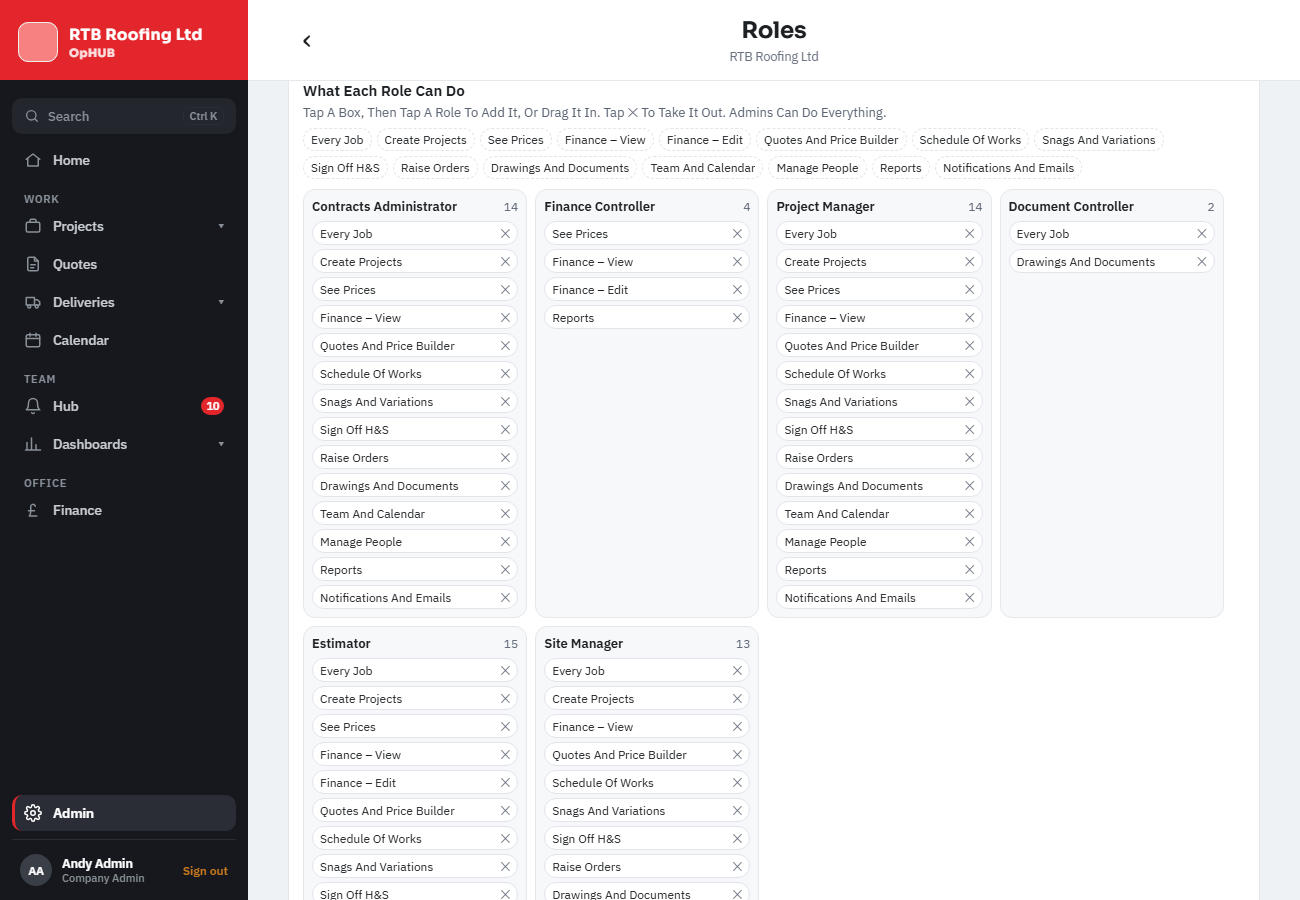
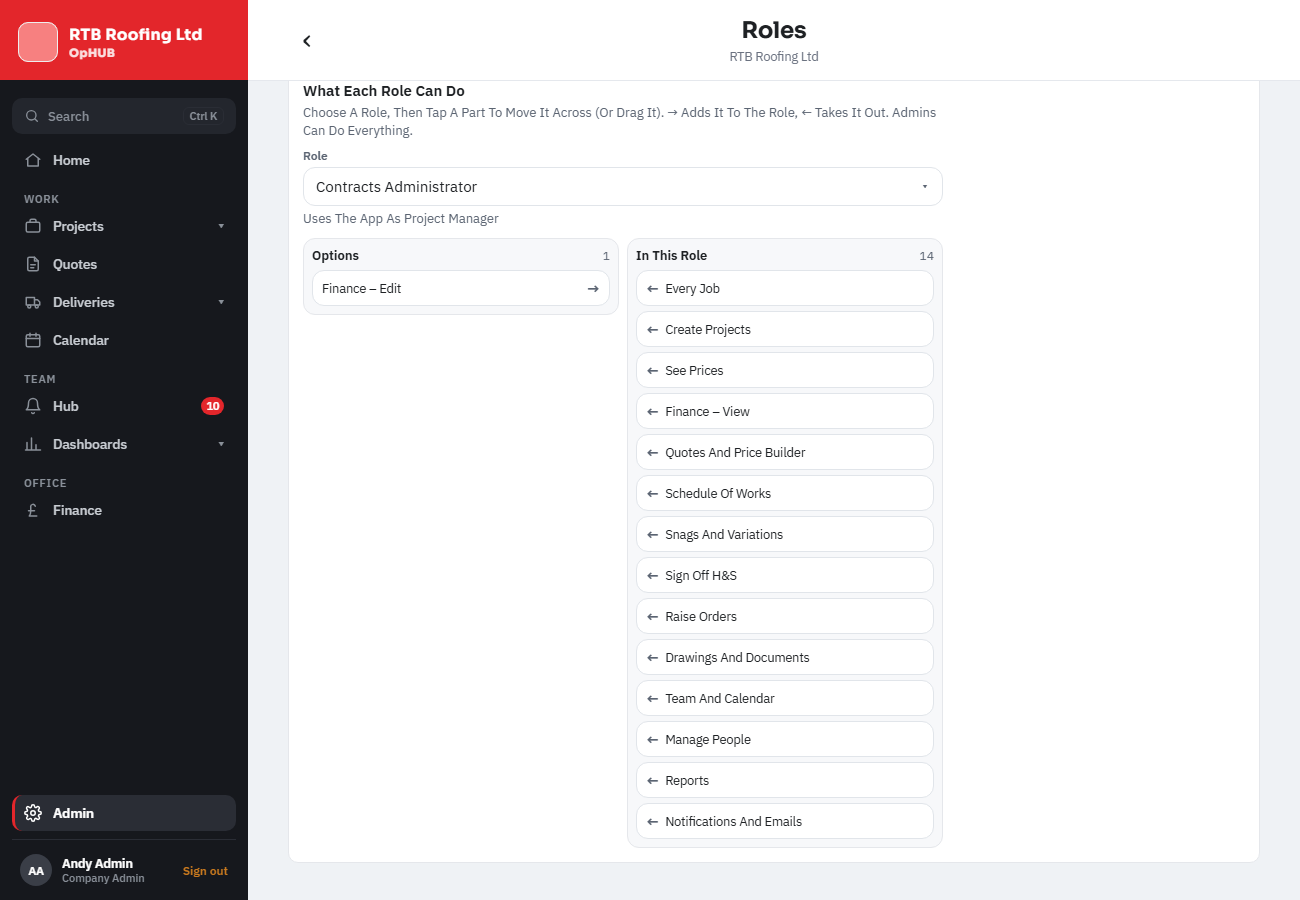
Roles: What Each Role Can Do shows one role at a time (Andy, 17 Nov)
Choose the role from a Role drop-down. Options on the left lists only the parts
it hasn't got; In This Role on the right lists the parts it has. Tap a part to
move it across (-> adds, <- takes out), or drag it across on a computer. Two
lists side by side on a phone and a laptop. roles17-check.js rewritten for it
(25 pass); roles17b-check.js picks Site Manager before checking its note.

Claude-Session: https://claude.ai/code/session_012KhfNvBEbifMJmPdX7yZfp

Changed region(s): [[0.2154, 0.1244, 0.8923, 1.0]]

diff --git a/app-native/src/components/RoleBoard.tsx b/app-native/src/components/RoleBoard.tsx
@@ -1,27 +1,32 @@
-// What Each Role Can Do (Admin › Roles; Andy, 17 Nov 2026: "I also want this board built into the app ... make it a
-// little more compact but I like it"). One column per office role holding the parts it can use, and the parts along
-// the top. Tap a part then tap a role to add it, ✕ to take it out; on a computer a part can also be dragged into a
-// role, or from one role to another. Each change saves straight away. Rules: lib/rules/rolePerms.
+// What Each Role Can Do (Admin › Roles). Andy, 17 Nov 2026: first a board with every office role as a column; then
+// "change it to a vertical drop down ... make the role drop down choose so only one role visible at a time to amend
+// ... remove options from the left hand side ... they already have in the right hand side". So: choose one role from
+// the Role ▾ drop-down. On the left, Options: the parts it hasn't got; on the right, In This Role: the parts it has.
+// Tap a part to move it across (→ adds it, ← takes it out); on a computer it can be dragged across too. Each change
+// saves straight away. Rules: lib/rules/rolePerms.
 import { useEffect, useRef, useState, type ComponentRef } from 'react';
 import { Platform, Pressable, Text, View } from 'react-native';
 
+import { SelectBox } from '@/components/SelectBox';
 import { showAlert } from '@/components/toast';
 import { Muted } from '@/components/ui';
-import { BOARD_LEVELS, PARTS, partsOf, withPart, type Part } from '@/lib/rules/rolePerms';
-import type { OrgRole } from '@/lib/rules/orgRoles';
+import { ACCESS_LABEL, type OrgRole } from '@/lib/rules/orgRoles';
+import { ALL_PARTS, BOARD_LEVELS, partLabel, partsOf, withPart, type Part } from '@/lib/rules/rolePerms';
 import { base, radius, useDesk } from '@/theme/theme';
 
-type Drag = { part: Part; from: string | null };
+type Side = 'options' | 'role';
+type Drag = { part: Part; from: Side };
 let dragging: Drag | null = null; // the web drag in progress (dataTransfer can't be read until the drop)
+const web = Platform.OS === 'web';
 
-/** On the web: makes a part draggable, and a role column a place to drop it. Nothing on a phone app. */
+/** On the web: makes a part draggable, and a list a place to drop it. Nothing on a phone app. */
 function useWebDnD(opts: { drag?: Drag; drop?: (d: Drag) => void; onHot?: (on: boolean) => void }) {
   const ref = useRef<ComponentRef<typeof View>>(null);
   const o = useRef(opts);
   useEffect(() => { o.current = opts; });
   useEffect(() => {
     const el = ref.current as unknown as HTMLElement | null;
-    if (Platform.OS !== 'web' || !el?.addEventListener) return;
+    if (!web || !el?.addEventListener) return;
     const offs: (() => void)[] = [];
     const on = <K extends keyof HTMLElementEventMap>(k: K, f: (e: HTMLElementEventMap[K]) => void) => { el.addEventListener(k, f); offs.push(() => el.removeEventListener(k, f)); };
     if (o.current.drag) {
@@ -39,55 +44,49 @@ function useWebDnD(opts: { drag?: Drag; drop?: (d: Drag) => void; onHot?: (on: b
   return ref;
 }
 
-function Chip({ part, label, from, picked, onPress, onRemove }: { part: Part; label: string; from: string | null; picked?: boolean; onPress?: () => void; onRemove?: () => void }) {
-  const ref = useWebDnD({ drag: { part, from } });
-  const look = { flexDirection: 'row' as const, alignItems: 'center' as const, gap: 6, paddingVertical: 3, paddingHorizontal: 7, borderRadius: radius.input, backgroundColor: base.card,
-    borderWidth: picked ? 1.5 : 1, borderStyle: from ? 'solid' as const : 'dashed' as const, borderColor: picked ? base.blue : base.line, ...(Platform.OS === 'web' ? { cursor: 'grab' } as object : {}) };
-  const inner = (
-    <>
-      <Text numberOfLines={2} style={{ flexShrink: 1, fontSize: 12, color: picked ? base.blue : base.ink, fontWeight: picked ? '600' : '400' }}>{label}</Text>
-      {!!onRemove && (
-        <Pressable onPress={onRemove} hitSlop={8} accessibilityRole="button" accessibilityLabel={`Take ${label} out`} style={{ marginLeft: 'auto' }}>
-          <Text style={{ fontSize: 12, color: base.slate }}>✕</Text>
-        </Pressable>
-      )}
-    </>
-  );
-  // A part in a role isn't a button itself (✕ is), so a tap on it reaches the role (adding the picked part).
+const arrow = { fontSize: 15, color: base.slate, fontWeight: '600' as const };
+
+/** One part. In Options it reads "Part →" (tap to add it); in the role, "← Part" (tap to take it out). */
+function Tile({ part, side, roleName, onMove }: { part: Part; side: Side; roleName: string; onMove: () => void }) {
+  const ref = useWebDnD({ drag: { part, from: side } });
+  const label = partLabel(part);
+  const adding = side === 'options';
   return (
     <View ref={ref}>
-      {onPress ? <Pressable onPress={onPress} accessibilityRole="button" accessibilityLabel={`${picked ? 'Unpick' : 'Pick'} ${label}`} style={look}>{inner}</Pressable> : <View style={look}>{inner}</View>}
+      <Pressable onPress={onMove} accessibilityRole="button" accessibilityLabel={adding ? `Add ${label} to ${roleName}` : `Take ${label} out of ${roleName}`}
+        style={({ pressed }) => ({ flexDirection: 'row', alignItems: 'center', gap: 6, minHeight: 36, paddingVertical: 5, paddingHorizontal: 9, borderRadius: radius.input,
+          borderWidth: 1, borderColor: base.line, backgroundColor: pressed ? '#F0F1F4' : base.card, ...(web ? { cursor: 'pointer' } as object : {}) })}>
+        {!adding && <Text style={arrow}>←</Text>}
+        <Text numberOfLines={2} style={{ flex: 1, fontSize: 12.5, color: base.ink }}>{label}</Text>
+        {adding && <Text style={arrow}>→</Text>}
+      </Pressable>
     </View>
   );
 }
 
-function Column({ role, parts, picked, width, onAdd, onRemove, onMoveIn }: { role: OrgRole; parts: Part[]; picked: Part | null; width: string; onAdd: () => void; onRemove: (p: Part) => void; onMoveIn: (d: Drag) => void }) {
+// onMove: a tap on one of its parts sends it to the other list; onTake: a part dragged in from the other list comes here.
+function List({ side, title, parts, roleName, empty, onMove, onTake }: { side: Side; title: string; parts: Part[]; roleName: string; empty: string; onMove: (p: Part) => void; onTake: (p: Part) => void }) {
   const [hot, setHot] = useState(false);
-  const ref = useWebDnD({ drop: onMoveIn, onHot: setHot });
-  const wants = !!picked && !parts.includes(picked);
+  const ref = useWebDnD({ drop: (d) => { if (d.from !== side) onTake(d.part); }, onHot: setHot });
   return (
-    <View ref={ref} style={{ width: width as never }}>
-      {/* Not a button itself (it holds the ✕ buttons): a tap anywhere on it, other than a ✕, adds the picked part. */}
-      <View onStartShouldSetResponder={() => wants} onResponderRelease={() => { if (wants) onAdd(); }} accessibilityLabel={wants ? `Add to ${role.name}` : undefined}
-        style={{ flex: 1, borderWidth: wants || hot ? 1.5 : 1, borderColor: wants || hot ? base.blue : base.cardLine, borderRadius: 12, backgroundColor: '#F7F8FA', padding: 8, gap: 4, ...(wants && Platform.OS === 'web' ? { cursor: 'pointer' } as object : {}) }}>
-        <View style={{ flexDirection: 'row', alignItems: 'baseline', marginBottom: 2 }}>
-          <Text numberOfLines={2} style={{ flex: 1, fontSize: 13, fontWeight: '600', color: base.ink }}>{role.name}</Text>
-          <Text style={{ fontSize: 12, color: wants ? base.blue : base.slate, fontWeight: wants ? '600' : '400' }}>{wants ? '+ Add Here' : parts.length}</Text>
-        </View>
-        {parts.length ? parts.map((p) => <Chip key={p} part={p} from={role.id} label={PARTS.find(([k]) => k === p)?.[1] ?? p} onRemove={() => onRemove(p)} />)
-          : <Muted style={{ fontSize: 12 }}>Nothing Yet</Muted>}
-        {/* What a level can't do whatever the board says (the database's rules for it). */}
-        {role.access === 'site_manager' && <Muted style={{ fontSize: 11.5, marginTop: 2 }}>Site Managers only see the jobs they&apos;re put on and can&apos;t make projects. For more, use a role that uses the app as Project Manager.</Muted>}
+    <View ref={ref} style={{ flex: 1, minWidth: 0, borderWidth: hot ? 1.5 : 1, borderColor: hot ? base.blue : base.cardLine, borderRadius: 12, backgroundColor: '#F7F8FA', padding: 8, gap: 5 }}>
+      <View style={{ flexDirection: 'row', alignItems: 'baseline', marginBottom: 1 }}>
+        <Text style={{ flex: 1, fontSize: 13, fontWeight: '600', color: base.ink }}>{title}</Text>
+        <Text style={{ fontSize: 12, color: base.slate }}>{parts.length}</Text>
       </View>
+      {parts.length ? parts.map((p) => <Tile key={p} part={p} side={side} roleName={roleName} onMove={() => onMove(p)} />)
+        : <Muted style={{ fontSize: 12, paddingVertical: 4 }}>{empty}</Muted>}
     </View>
   );
 }
 
 export function RoleBoard({ roles, onSave }: { roles: OrgRole[]; onSave: (role: OrgRole, perms: Part[]) => Promise<string | null> }) {
   const board = roles.filter((r) => BOARD_LEVELS.includes(r.access));
+  const [pick, setPick] = useState<string | null>(null);
   const [mine, setMine] = useState<Record<string, Part[]>>({}); // changes not read back yet
-  const [picked, setPicked] = useState<Part | null>(null);
   const desk = useDesk();
+  const role = board.find((r) => r.id === pick) ?? board[0];
+  if (!role) return <Muted>No office roles yet. Add one above.</Muted>;
   const partsFor = (r: OrgRole) => mine[r.id] ?? partsOf(r.perms);
   const save = async (r: OrgRole, next: Part[]) => {
     const before = partsFor(r);
@@ -95,26 +94,20 @@ export function RoleBoard({ roles, onSave }: { roles: OrgRole[]; onSave: (role: 
     const err = await onSave(r, next);
     if (err) { setMine((m) => ({ ...m, [r.id]: before })); showAlert(err); }
   };
-  const moveIn = (to: OrgRole) => (d: Drag) => {
-    if (d.from === to.id) return;
-    void save(to, withPart(partsFor(to), d.part, true));
-    const from = board.find((r) => r.id === d.from);
-    if (from) void save(from, withPart(partsFor(from), d.part, false));
-  };
+  const has = partsFor(role);
+  const options = ALL_PARTS.filter((p) => !has.includes(p));
+  const move = (on: boolean) => (p: Part) => void save(role, withPart(has, p, on));
   return (
-    <View>
-      <Muted style={{ marginBottom: 6 }}>Tap A Box, Then Tap A Role To Add It{Platform.OS === 'web' && desk ? ', Or Drag It In' : ''}. Tap ✕ To Take It Out. Admins Can Do Everything.</Muted>
-      <View style={{ flexDirection: 'row', flexWrap: 'wrap', gap: 5, marginBottom: 10 }}>
-        {PARTS.map(([k, l]) => <Chip key={k} part={k} label={l} from={null} picked={picked === k} onPress={() => setPicked(picked === k ? null : k)} />)}
+    <View style={{ maxWidth: desk ? 640 : undefined }}>
+      <Muted style={{ marginBottom: 8 }}>Choose A Role, Then Tap A Part To Move It Across{web && desk ? ' (Or Drag It)' : ''}. → Adds It To The Role, ← Takes It Out. Admins Can Do Everything.</Muted>
+      <SelectBox label="Role" title="Choose A Role" value={role.id} options={board.map((r) => [r.id, r.name] as [string, string])} onChange={setPick} style={{ marginBottom: 4 }} />
+      <Muted style={{ marginBottom: 10 }}>Uses The App As {ACCESS_LABEL[role.access as keyof typeof ACCESS_LABEL] ?? role.access}</Muted>
+      <View style={{ flexDirection: 'row', gap: 8, alignItems: 'flex-start' }}>
+        <List side="options" title="Options" parts={options} roleName={role.name} empty="It Has Everything" onMove={move(true)} onTake={move(false)} />
+        <List side="role" title="In This Role" parts={has} roleName={role.name} empty="Nothing Yet" onMove={move(false)} onTake={move(true)} />
       </View>
-      <View style={{ flexDirection: 'row', flexWrap: 'wrap', gap: 8 }}>
-        {board.map((r) => (
-          <Column key={r.id} role={r} parts={partsFor(r)} picked={picked} width={desk ? '23.8%' : '48.5%'}
-            onAdd={() => { if (picked) void save(r, withPart(partsFor(r), picked, true)); }}
-            onRemove={(p) => void save(r, withPart(partsFor(r), p, false))}
-            onMoveIn={moveIn(r)} />
-        ))}
-      </View>
+      {/* What a level can't do whatever the lists say (the database's rules for it). */}
+      {role.access === 'site_manager' && <Muted style={{ fontSize: 12, marginTop: 8 }}>Site Managers only see the jobs they&apos;re put on and can&apos;t make projects. For more, use a role that uses the app as Project Manager.</Muted>}
     </View>
   );
 }

diff --git a/tools/test-harness/roles17-check.js b/tools/test-harness/roles17-check.js
@@ -1,7 +1,7 @@
-// What Each Role Can Do (Andy, 17 Nov 2026: "I also want this board built into the app ... make it a little more
-// compact"). Admin › Roles has the board: the office roles as columns holding their parts, the parts along the top.
-// Tap a part then a role to add it, ✕ to take it out, or drag it in on a computer; each change saves to
-// org_roles.perms. Then someone whose role lacks Quotes, Calendar and Create Projects doesn't see them.
+// What Each Role Can Do (Andy, 17 Nov 2026). Admin › Roles: choose one office role from the Role ▾ drop-down; on the
+// left, Options (the parts it hasn't got), on the right, In This Role (the parts it has). Tap a part to move it across
+// (→ adds, ← takes out), or drag it across on a computer; each change saves to org_roles.perms. Then someone whose
+// role lacks Quotes, Calendar and Create Projects doesn't see them.
 // node roles17-check.js
 const {chromium, makeContext} = require('./harness');
 const path = require('path');
@@ -39,35 +39,68 @@ async function signIn(page) {
 
   await page.goto(B + '/pm/admin/roles'); await page.waitForTimeout(4000);
   let t = await body();
-  const board = t.slice(t.indexOf('What Each Role Can Do'));
+  const lists = () => body().then((x) => {
+    const s = x.slice(x.indexOf('What Each Role Can Do'));
+    const o = s.indexOf('\nOptions\n'), r = s.indexOf('\nIn This Role\n');
+    return {all: s, options: s.slice(o, r), role: s.slice(r)};
+  });
   check(t.includes('What Each Role Can Do'), 'the board is on Admin › Roles');
-  check(['Contracts Administrator', 'Finance Controller', 'Project Manager', 'Document Controller', 'Estimator', 'Site Manager'].every((n) => board.includes(n)), 'one column for each office role');
-  check(!/\nAdmin\n|\nOperative\n|\nDelivery Driver\n/.test(board), 'no Admin, Operative or Driver column');
-  check(/Document Controller\n2\n/.test(board), 'a column shows how many parts it has');
+  let L = await lists();
+  check(/Role\nContracts Administrator\n/.test(L.all), 'the Role ▾ drop-down starts on the first office role (Contracts Administrator)');
+  check(/Options\n1\nFinance – Edit\n/.test(L.options) && !/Every Job/.test(L.options), 'Options lists only what the role hasn’t got (Finance – Edit)');
+  check(/In This Role\n14\n/.test(L.role) && /Every Job/.test(L.role) && !/Finance – Edit/.test(L.role), 'In This Role lists its 14 parts');
+  check(!/Document Controller|Estimator|Finance Controller/.test(L.all.slice(L.all.indexOf('\nRole\n'))), 'only one role on show at a time');
   await page.getByText('What Each Role Can Do', {exact: true}).evaluate((e) => e.scrollIntoView({block: 'start'})); await page.waitForTimeout(400); await page.screenshot({path: path.join(SHOTS, 'board-laptop.png')});
 
-  // Tap Finance – Edit, then tap Contracts Administrator: added and saved.
-  await page.getByLabel('Pick Finance – Edit', {exact: true}).click(); await page.waitForTimeout(400);
-  await page.getByText('What Each Role Can Do', {exact: true}).evaluate((e) => e.scrollIntoView({block: 'start'})); await page.waitForTimeout(300);
-  await page.screenshot({path: path.join(SHOTS, 'board-picked.png')});
-  await page.getByLabel('Add to Contracts Administrator', {exact: true}).click(); await page.waitForTimeout(1500);
+  // The drop-down lists the office roles only.
+  await page.getByLabel('Role', {exact: true}).click(); await page.waitForTimeout(600);
+  t = await body();
+  const menu = t.slice(t.lastIndexOf('Choose A Role'));
+  check(['Contracts Administrator', 'Finance Controller', 'Project Manager', 'Document Controller', 'Estimator', 'Site Manager'].every((n) => menu.includes(n)), 'the drop-down has each office role');
+  check(!/\nAdmin\n|\nOperative\n|\nDelivery Driver\n/.test(menu), 'no Admin, Operative or Driver in it');
+  await page.screenshot({path: path.join(SHOTS, 'board-dropdown.png')});
+  await page.getByText('✓ Contracts Administrator', {exact: true}).click(); await page.waitForTimeout(500);
+
+  // → moves Finance – Edit into Contracts Administrator, and it leaves Options.
+  await page.getByLabel('Add Finance – Edit to Contracts Administrator', {exact: true}).click(); await page.waitForTimeout(1500);
   const ca = () => db.org_roles.find((r) => r.id === 'r2').perms;
-  check(ca().includes('fin_edit') && ca().length === PM.length + 1 && ca().indexOf('fin_edit') === 4, `tap then tap: added, saved in the board's order (${ca().length} parts)`);
-  // ✕ takes it out again (the first Finance – Edit on the board is Contracts Administrator's).
-  await page.getByLabel('Take Finance – Edit out', {exact: true}).first().click(); await page.waitForTimeout(1500);
-  check(!ca().includes('fin_edit'), 'the ✕ takes it out and saves');
+  check(ca().includes('fin_edit') && ca().length === PM.length + 1 && ca().indexOf('fin_edit') === 4, `→ adds it, saved in the board's order (${ca().length} parts)`);
+  L = await lists();
+  check(/It Has Everything/.test(L.options) && /Finance – Edit/.test(L.role), 'it moves across: Options now says It Has Everything');
+  // ← takes it out again.
+  await page.getByLabel('Take Finance – Edit out of Contracts Administrator', {exact: true}).click(); await page.waitForTimeout(1500);
+  check(!ca().includes('fin_edit'), '← takes it out and saves');
+  L = await lists();
+  check(/Finance – Edit/.test(L.options) && !/Finance – Edit/.test(L.role), 'and it goes back to Options');
   // Untouched roles stay as they were; an unset role (Estimator) still means everything.
   check(db.org_roles.find((r) => r.id === 'r6').perms === null, 'other roles untouched');
 
-  // Drag Reports from the top row into Document Controller.
-  await page.getByLabel('Pick Reports', {exact: true}).dragTo(page.getByText('Document Controller', {exact: true}).last()); await page.waitForTimeout(1500);
+  // Choose Document Controller: its own lists only.
+  await page.getByLabel('Role', {exact: true}).click(); await page.waitForTimeout(600);
+  await page.getByText('Document Controller', {exact: true}).last().click(); await page.waitForTimeout(800);
+  L = await lists();
+  check(/Role\nDocument Controller\n/.test(L.all) && /In This Role\n2\n/.test(L.role) && /Options\n13\n/.test(L.options), 'Document Controller chosen: 2 in the role, 13 options');
+  // Drag Reports across into the role.
+  await page.getByLabel('Add Reports to Document Controller', {exact: true}).dragTo(page.getByText('In This Role', {exact: true})); await page.waitForTimeout(1500);
   const dc = db.org_roles.find((r) => r.id === 'r5').perms;
-  check(dc.includes('reports') && dc.length === 3, `dragged in on a computer: ${dc.join(', ')}`);
+  check(dc.includes('reports') && dc.length === 3, `dragged across on a computer: ${dc.join(', ')}`);
+  // Site Manager shows what its level can't do.
+  await page.getByLabel('Role', {exact: true}).click(); await page.waitForTimeout(600);
+  await page.getByText('Site Manager', {exact: true}).last().click(); await page.waitForTimeout(800);
+  check(/Site Managers only see the jobs they.re put on/.test(await body()), 'Site Manager: the note about its level');
 
-  // Phone: two columns, nothing off the side.
+  // Phone: the two lists side by side, nothing off the side.
   await page.setViewportSize({width: 390, height: 844}); await page.goto(B + '/pm/admin/roles'); await page.waitForTimeout(3500);
   await page.getByText('What Each Role Can Do', {exact: true}).evaluate((e) => e.scrollIntoView({block: 'start'})); await page.waitForTimeout(400); await page.screenshot({path: path.join(SHOTS, 'board-phone.png')});
   check(!(await page.evaluate(() => document.documentElement.scrollWidth > window.innerWidth + 2)), 'phone: nothing runs off the side');
+  const side = await page.evaluate(() => {
+    const at = (s) => [...document.querySelectorAll('div')].find((e) => e.textContent === s)?.getBoundingClientRect();
+    const o = at('Options'), r = at('In This Role');
+    return o && r ? Math.abs(o.top - r.top) < 4 && r.left > o.right : false;
+  });
+  check(side, 'phone: Options and In This Role sit side by side');
+  await page.getByLabel('Add Finance – Edit to Contracts Administrator', {exact: true}).click(); await page.waitForTimeout(1500);
+  check(ca().includes('fin_edit'), 'phone: a tap moves it across');
 
   // A PM whose role has no Quotes, Calendar or Create Projects.
   const b2 = await makeContext(browser, 'pm', [], {viewport: {width: 1300, height: 900}});

diff --git a/app-native/src/app/(app)/pm/admin/roles.tsx b/app-native/src/app/(app)/pm/admin/roles.tsx
@@ -1,7 +1,8 @@
 // Admin Centre › People › Roles (Andy, 16 Nov 2026: "a selection of roles ... a set list that the admin can see, but
 // also add and remove"). The company's roles in order; each says what it uses the app as (OpHUB's level, which is
 // what decides what they can see and do) and how many people have it. Tap one to rename it, change its level (only
-// when nobody has it) or remove it; + Add A Role at the foot. Below, What Each Role Can Do: the board (17 Nov 2026).
+// when nobody has it) or remove it; + Add A Role at the foot. Below, What Each Role Can Do: one role at a time, chosen
+// from a drop-down, with the parts it can have on the left and the parts it has on the right (17 Nov 2026).
 // Company admins only; the database enforces the same.
 import { useQueryClient } from '@tanstack/react-query';
 import { Stack } from 'expo-router';

diff --git a/tools/test-harness/roles17b-check.js b/tools/test-harness/roles17b-check.js
@@ -87,6 +87,8 @@ async function as(browser, role, perms, extra) {
   // 5. The board says what Site Managers can't do.
   u = await as(browser, 'admin', null);
   await u.page.goto(B + '/pm/admin/roles'); await u.page.waitForTimeout(4000);
+  await u.page.getByLabel('Role', {exact: true}).click(); await u.page.waitForTimeout(600);
+  await u.page.getByText('Site Manager', {exact: true}).last().click(); await u.page.waitForTimeout(800);
   check(/Site Managers only see the jobs they.re put on and can.t make projects/.test(await u.text()), 'the board explains Site Managers’ limits');
   errs.push(...u.errs); await u.page.context().close();
 
